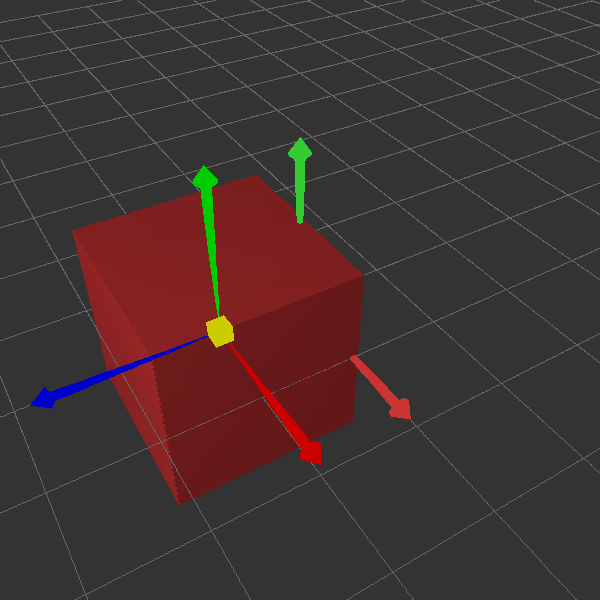
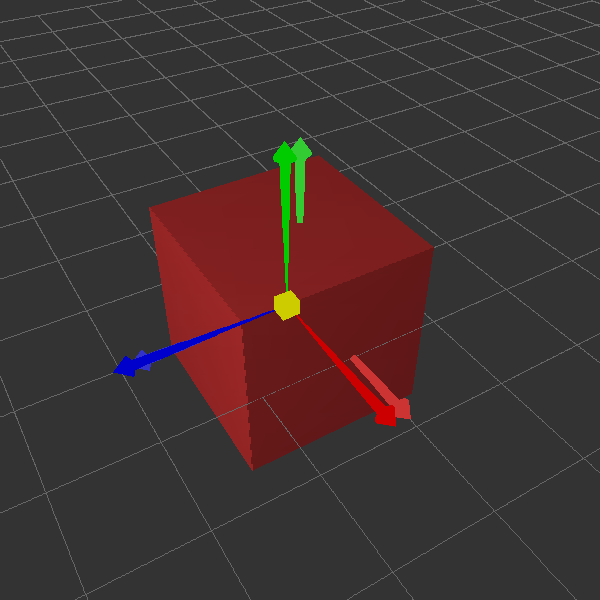
rotate works

diff --git a/model3/src/modeler/manip/TranslateManip.java b/model3/src/modeler/manip/TranslateManip.java
@@ -19,31 +19,35 @@ public class TranslateManip extends Manip {
 	public void dragged(Vector2f mousePosition, Vector2f mouseDelta) {
 		// TODO: Part 3: Implement this method
 
-
 		//get axis ray
 		Point3f axisOrigin = new Point3f();
 		Vector3f axisDirection = new Vector3f();
 		computeAxisRay(axisOrigin, axisDirection);
 
-		//get viewing ray
-		Point3f viewOrigin = new Point3f();
-		Vector3f viewDirection = new Vector3f();
-		computeViewingRay(mousePosition, viewOrigin, viewDirection);
+		//get viewing ray for start position
+		Point3f viewOriginStart = new Point3f();
+		Vector3f viewDirectionStart = new Vector3f();
+    	computeViewingRay(mousePosition, viewOriginStart, viewDirectionStart);
 
-		//get t
-		float tValue = computePseudointersection(axisOrigin, axisDirection, viewOrigin, viewDirection);
+		//get viewing ray for end position
+		Point3f viewOriginEnd = new Point3f();
+		Vector3f viewDirectionEnd = new Vector3f();
+		Vector2f newMousePosition = new Vector2f(mousePosition.x + mouseDelta.x, mousePosition.y + mouseDelta.y);
+		computeViewingRay(newMousePosition, viewOriginEnd, viewDirectionEnd);
+
+		//get T values
+		float tStart = computePseudointersection(viewOriginStart, viewDirectionStart, axisOrigin, axisDirection);
+		float tEnd = computePseudointersection(viewOriginEnd, viewDirectionEnd, axisOrigin, axisDirection);
+		float tDifference = tEnd - tStart;
 
 		//scale selected axis by t value
 		Vector3f translationAmount = new Vector3f();
-    	translationAmount.scale(tValue, axisDirection);
+    	translationAmount.scale(tDifference, axisDirection);
 
-		// Update the translation component of the transformation
+		//update the translation component of the transformation
 		Vector3f currentTranslation = t.getTranslate();
 		currentTranslation.add(translationAmount);
 		t.setTranslate(currentTranslation);
-
-		//refresh
-		refreshTransformationAttributePanel();
 	}
 
 	////////////////////////////////////////////////////////////////////////////////////////////////////

diff --git a/model3/src/modeler/manip/ScaleManip.java b/model3/src/modeler/manip/ScaleManip.java
@@ -1,5 +1,6 @@
 package modeler.manip;
 
+import javax.vecmath.Point3f;
 import javax.vecmath.Vector2f;
 import javax.vecmath.Vector3f;
 
@@ -18,7 +19,36 @@ public class ScaleManip extends Manip {
 
 	public void dragged(Vector2f mousePosition, Vector2f mouseDelta) {
 		// TODO: Part 3: Implement this method
-		throw new UnsupportedOperationException();
+
+		//get axis ray
+		Point3f axisOrigin = new Point3f();
+		Vector3f axisDirection = new Vector3f();
+		computeAxisRay(axisOrigin, axisDirection);
+
+		//get viewing ray for start position
+		Point3f viewOriginStart = new Point3f();
+		Vector3f viewDirectionStart = new Vector3f();
+		computeViewingRay(mousePosition, viewOriginStart, viewDirectionStart);
+
+		//get viewing ray for end position
+		Point3f viewOriginEnd = new Point3f();
+		Vector3f viewDirectionEnd = new Vector3f();
+		Vector2f newMousePosition = new Vector2f(mousePosition.x + mouseDelta.x, mousePosition.y + mouseDelta.y);
+		computeViewingRay(newMousePosition, viewOriginEnd, viewDirectionEnd);
+
+		//get T values
+		float tStart = computePseudointersection(viewOriginStart, viewDirectionStart, axisOrigin, axisDirection);
+		float tEnd = computePseudointersection(viewOriginEnd, viewDirectionEnd, axisOrigin, axisDirection);
+		float tDifference = tEnd - tStart;
+
+		//scale selected axis by t value
+		Vector3f translationAmount = new Vector3f();
+		translationAmount.scale(tDifference, axisDirection);
+
+		//update the translation component of the transformation
+		Vector3f currentTranslation = t.getScale();
+		currentTranslation.add(translationAmount);
+		t.setScale(currentTranslation);
 	}
 
 	////////////////////////////////////////////////////////////////////////////////////////////////////

diff --git a/model3/src/modeler/manip/RotateManip.java b/model3/src/modeler/manip/RotateManip.java
@@ -16,9 +16,26 @@ public class RotateManip extends Manip {
 		this.t = t;
 	}
 
-	public void dragged(Vector2f mousePosition, Vector2f mouseDelta) {
-		// TODO: Part 3: Implement this method
-		throw new UnsupportedOperationException();
+	public void dragged(Vector2f mousePosition, Vector2f mouseDelta) {		
+		float rotationAngle;
+
+		if(axisMode == PICK_X)
+		{
+			rotationAngle = mouseDelta.y * 360.0f;
+			t.setRotate(new Vector3f(rotationAngle, t.getRotate().y, t.getRotate().z));
+			
+		}
+		if(axisMode == PICK_Y)
+		{
+			rotationAngle = mouseDelta.y * 360.0f;
+			t.setRotate(new Vector3f(t.getRotate().x, rotationAngle, t.getRotate().z));
+	
+		}
+		if(axisMode == PICK_Z)
+		{
+			rotationAngle = mouseDelta.y * 360.0f;		
+			t.setRotate(new Vector3f(t.getRotate().x, t.getRotate().y, rotationAngle));
+		}
 	}
 
 	////////////////////////////////////////////////////////////////////////////////////////////////////

diff --git a/model3/src/modeler/manip/Manip.java b/model3/src/modeler/manip/Manip.java
@@ -85,7 +85,7 @@ public abstract class Manip {
 		//origin of the ray
 		p.set(c.getEye());
 		
-		Vector2f mouseDelta = new Vector2f(pickedMousePoint.x - mouse.x, pickedMousePoint.y - mouse.y);
+		Vector2f mouseDelta = new Vector2f(0 - mouse.x, 0 - mouse.y);
 
 		//direction of the ray
 		Vector3f dir = new Vector3f();
@@ -115,10 +115,6 @@ public abstract class Manip {
 		if (axisMode == PICK_Z)
 		{
 			d.set(eZ);
-		}
-		if (axisMode == PICK_OTHER)
-		{
-			d.set(e0);
 		}
 	}
 
